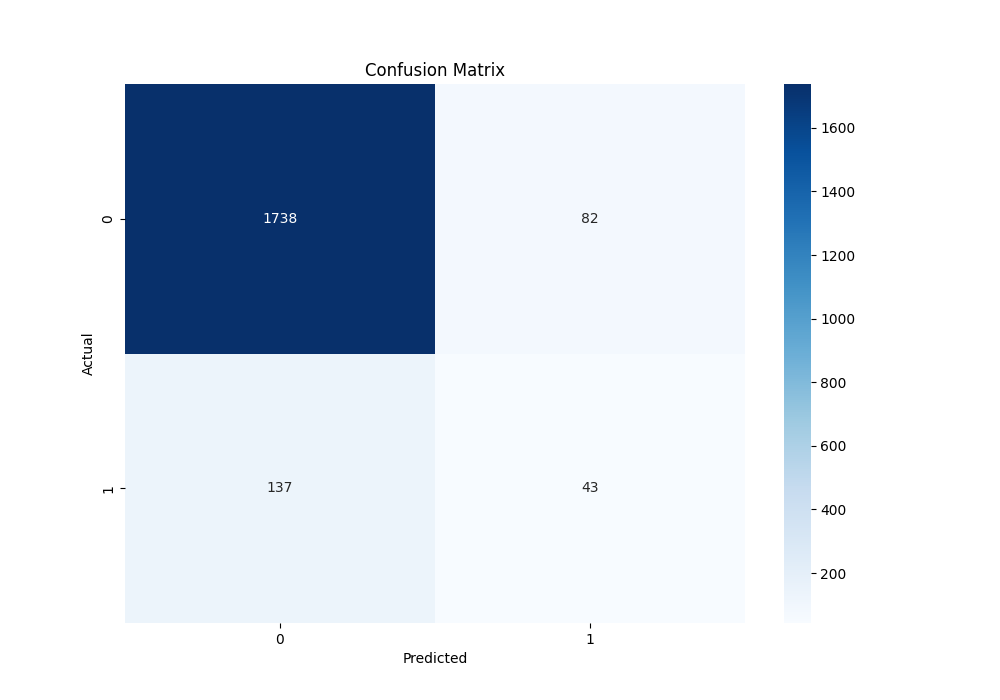
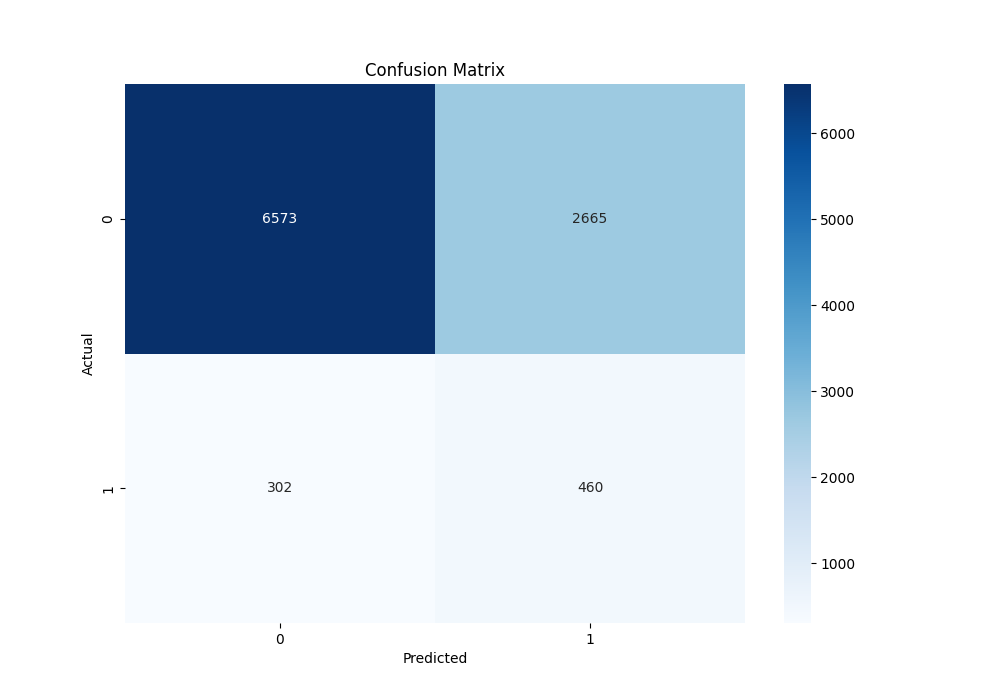
Préparations à GitHub Actions

diff --git a/Missamou_Kephan_2_notebook_modélisation_112024.py b/Missamou_Kephan_2_notebook_modélisation_112024.py
@@ -38,7 +38,7 @@ import shap
 #%%
 
 def main():
-    debug = False
+    debug = True
 
     def clean_infinity(df, lower_bound=-1e10, upper_bound=1e10):
         """
@@ -291,7 +291,7 @@ def main():
         del cc
         return cc_agg
 
-    num_rows = 10000 if debug else None
+    num_rows = 50000 if debug else None
     df = application_train_test(num_rows)
     bureau = bureau_and_balance(num_rows)
     print("Bureau df shape:", bureau.shape)
@@ -361,7 +361,8 @@ def main():
     # fbêta score de sklearn.metrics
     fbeta_scoring = make_scorer(
         fbeta_score,
-        beta=0.7
+        beta=2,
+        greater_is_better=True
         )
 
     # stratified_kfold = StratifiedKFold(n_splits=5, shuffle=True, random_state=42)
@@ -388,7 +389,7 @@ def main():
         cv=5,
         n_jobs=-1,
         verbose=1,
-        n_iter=5,
+        n_iter=50,
         scoring=fbeta_scoring,
         return_train_score=True
         )
@@ -406,7 +407,7 @@ def main():
                 "stratification": "False",
                 "class_rebalancing": "True",
                 'rebalancing_strategy': "class_weights : balanced_subsample ou balanced",
-                "bêta": "0.7",
+                "bêta": "2",
                 "numerical_imputer": "SimpleImputer (mean)",
                 "categorical_imputer": "SimpleImputer (most_frequent)",
                 "scaler": "StandardScaler",
@@ -424,7 +425,7 @@ def main():
 
         y_pred = grid_search.predict(X_test)
         report = classification_report(y_test, y_pred, output_dict=True)
-        report['weighted avg']['fbeta-score'] = fbeta_score(y_test, y_pred, beta=0.7)
+        report['weighted avg']['fbeta-score'] = fbeta_score(y_test, y_pred, beta=2)
         mlflow.log_metrics({
             'precision': report['weighted avg']['precision'],
             'recall': report['weighted avg']['recall'],
